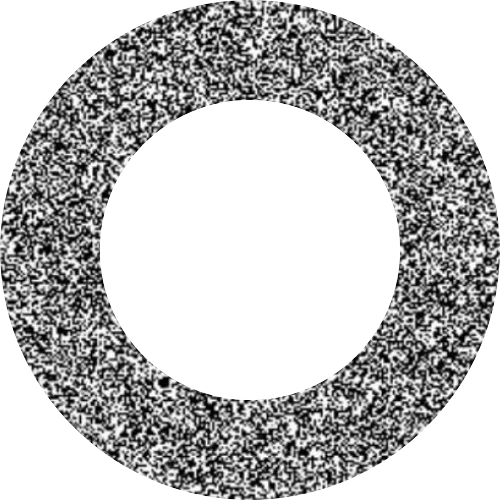
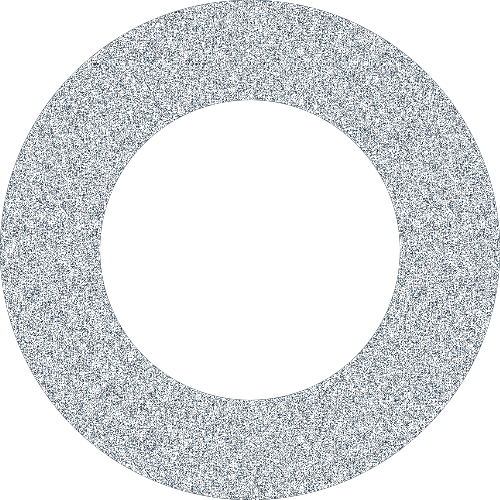
working on task01...

diff --git a/stimulus/cyc02_task01.py b/stimulus/cyc02_task01.py
@@ -1,0 +1,209 @@
+"""
+Mo Shams <MShamsCBR@gmail.com>
+June 2023
+---
+
+The subject task is to localize a flashing probe in the presence of a moving
+annulus.
+
+15 repetitions
+2 direction condisions (first half of rotatioin is considered): cw or ccw
+2 annulus conditions: with and without visual marker
+2 reversal conditions: with and without reversal
+
+"""
+
+import os
+import random
+import numpy as np
+import pandas as pd
+from psychopy import visual
+from lib import config_visual as cvis, genpath, keymouse, timestamp
+import warnings
+
+# ----------------------------------------------------------------------------
+# turn off Numpy's FutureWarning
+warnings.simplefilter(action='ignore', category=FutureWarning)
+# ----------------------------------------------------------------------------
+
+# /// GENERAL SETTINGS ///
+
+subID = 'test'
+rep_per_cnd = 15  # repetition per condition
+full_screen = False
+
+n_trials = rep_per_cnd * 2 * 2 * 2
+frame_rate = 60
+frame_repeat = 2  # flash duration [frames]
+command_keys = {'quit_key': 'escape', 'response_key': 'space'}
+# ----------------------------------------------------------------------------
+
+# /// SET UP DIRECTORY PATHS ///
+
+save_folder = os.path.join('', '..', 'data')
+image_folder = os.path.join('', '..', 'stimulus', 'image')
+
+save_path = \
+    os.path.join(save_folder,
+                 f"{subID}_{timestamp.getdate()}_{timestamp.gettime()}.json")
+# ----------------------------------------------------------------------------
+
+# /// CONFIGURE VISUAL OBJECTS ///
+
+# /// frame rate downsampling
+# division by 60 to obtain 60 Hz (16.67 ms per frame) regardless of actual
+# frame rate
+frame_rate_rep = int(frame_rate / 60)
+practical_fr = int(frame_rate / frame_rate_rep)
+
+# /// background
+bg_color = [0, 0, 0]
+
+# /// temporal gap
+# sec x Hz = frames
+gap_dur_arr = np.round(np.arange(1, 1.5, .1) * practical_fr)
+gap_dur_arr = gap_dur_arr.astype(int)
+
+# /// fixation dot
+fixdot_size = .7
+fixdot_pos = (0, 0)
+fixdot_color = 'white'
+fixdot_dur = 1 * practical_fr  # sec x Hz = frames
+
+# /// moving object
+mov_size = 10
+mov_dur = int(2 * practical_fr)  # in frames
+# create orientation array (row 1: w/o rev | row 2: w/ rev)
+rot_array_base = np.linspace(-90, 90, int(mov_dur / 2) + 1)
+rot_array_rev = \
+    np.concatenate((rot_array_base[:int(len(rot_array_base) / 2) + 1],
+                    np.flip(rot_array_base[:int(len(rot_array_base) / 2)])))
+rot_array = np.vstack((rot_array_base, rot_array_rev))
+
+# /// flashing object(s)
+probe_rad = .5  # radius of the probe
+probe_color = 'red'
+probe_pos = [0, 4]
+probe_ori = rot_array[0, int(rot_array.shape[1] / 2)]
+
+# ----------------------------------------------------------------------------
+
+# # /// CONFIGURE MONITOR AND SCREEN ///
+
+mon = cvis.configmon_dell()
+win = cvis.configwin(mon=mon, screen=0,
+                     fullscr=full_screen,
+                     color=bg_color)
+cvis.test_framerate(win=win, nominal_fr=frame_rate)
+# ----------------------------------------------------------------------------
+
+# /// CONDITIONING ///
+
+ind_cnd = np.arange(n_trials)
+np.random.shuffle(ind_cnd)
+
+# annulus condition
+ring_array = np.repeat(['marked', 'noise'], n_trials / 2)
+ring_array = ring_array[ind_cnd]
+
+# reversal condition
+rev_array = np.tile(np.repeat([0, 1], n_trials / 2 / 2), 2)
+rev_array = rev_array[ind_cnd]
+
+# rotation direction condition
+dir_array = np.tile(np.repeat(['cw', 'ccw'], n_trials / 2 / 2 / 2), 4)
+dir_array = dir_array[ind_cnd]
+# ----------------------------------------------------------------------------
+
+# /// START TRIAL ///
+
+for itrial in range(1):
+
+    # set image properties and load
+    ring_directory = os.path.join(image_folder,
+                                  f"ring_{ring_array[itrial]}.png")
+    # load image
+    ring = visual.ImageStim(win,
+                            image=ring_directory,
+                            size=mov_size,
+                            opacity=.5,
+                            pos=(0, 0))
+    # adjust rotation direction
+    if dir_array[itrial] == 'ccw':
+        rot_array_tr = -rot_array
+    else:
+        rot_array_tr = rot_array
+
+    # -------------------------------
+    #
+    #     # /// set up trial variables
+    #
+    #     # decide on starting point and rotating direction of the bar
+    #     movobj_dir = 'cw'  # 'cw' or 'ccw'
+    #     # movobj_theta_first = random.choice(range(180, 360, 10))
+    #     movobj_theta_first = 270
+    #     movobj_thetas = genpath.angular(theta1=movobj_theta_first,
+    #                                     dur=movobj_dur,
+    #                                     rotdir=movobj_dir)
+    #     # decide on the frame number to show the flash
+    #     probe_frame = probe_frame_list[itrial]
+    #
+    #     # decide on gap durations
+    #     firstgap_dur = np.random.choice(gap_dur_arr)
+    #     lastgap_dur = np.random.choice(gap_dur_arr)
+    #     # -------------------------------
+    #
+    #     # /// run task
+    #
+    # # fixation period
+    # for frame in range(fixdot_dur):
+    #     cvis.addfixdot(win=win, size=fixdot_size, pos=fixdot_pos,
+    #                    color=fixdot_color)
+    #     win.flip()
+    #
+    # # gap period
+    # for frame in range(firstgap_dur):
+    #     win.flip()
+
+    # motion period
+    for iori in rot_array_tr[rev_array[itrial], :]:
+        for irep in range(frame_repeat):
+            ring.ori = iori
+            ring.draw()
+            if iori == probe_ori:
+                cvis.addprobe(win=win, radius=probe_rad,
+                              color=probe_color,
+                              pos=probe_pos)
+            win.flip()
+
+#     # response period
+#     click_loc = keymouse.get_mouseclick11(win)
+#     # gap period
+#     for frame in range(lastgap_dur):
+#         win.flip()
+#
+#     # -------------------------------
+#
+#     # /// save data
+#
+#     # create a dictionary
+#     trial_dict = {'trial_num': [itrial + 1],
+#                   'probe_loc': [probe_pos_trial],
+#                   'click_loc': [click_loc],
+#                   'movobj_atflash': [movobj_atflash],
+#                   'movobj_dur_sec': [movobj_dur_sec],
+#                   'movobj_theta_first': [movobj_theta_first],
+#                   'movobj_dir': [movobj_dir]}
+#
+#     # convert to data frame
+#     dfnew = pd.DataFrame(trial_dict)
+#
+#     # if first trial create a file, else load and add the new data frame
+#     if itrial == 0:
+#         dfnew.to_json(save_path)
+#     else:
+#         df = pd.read_json(save_path)
+#         dfnew = pd.concat([df, dfnew], ignore_index=True)
+#         dfnew.to_json(save_path)
+#
+# win.close()
